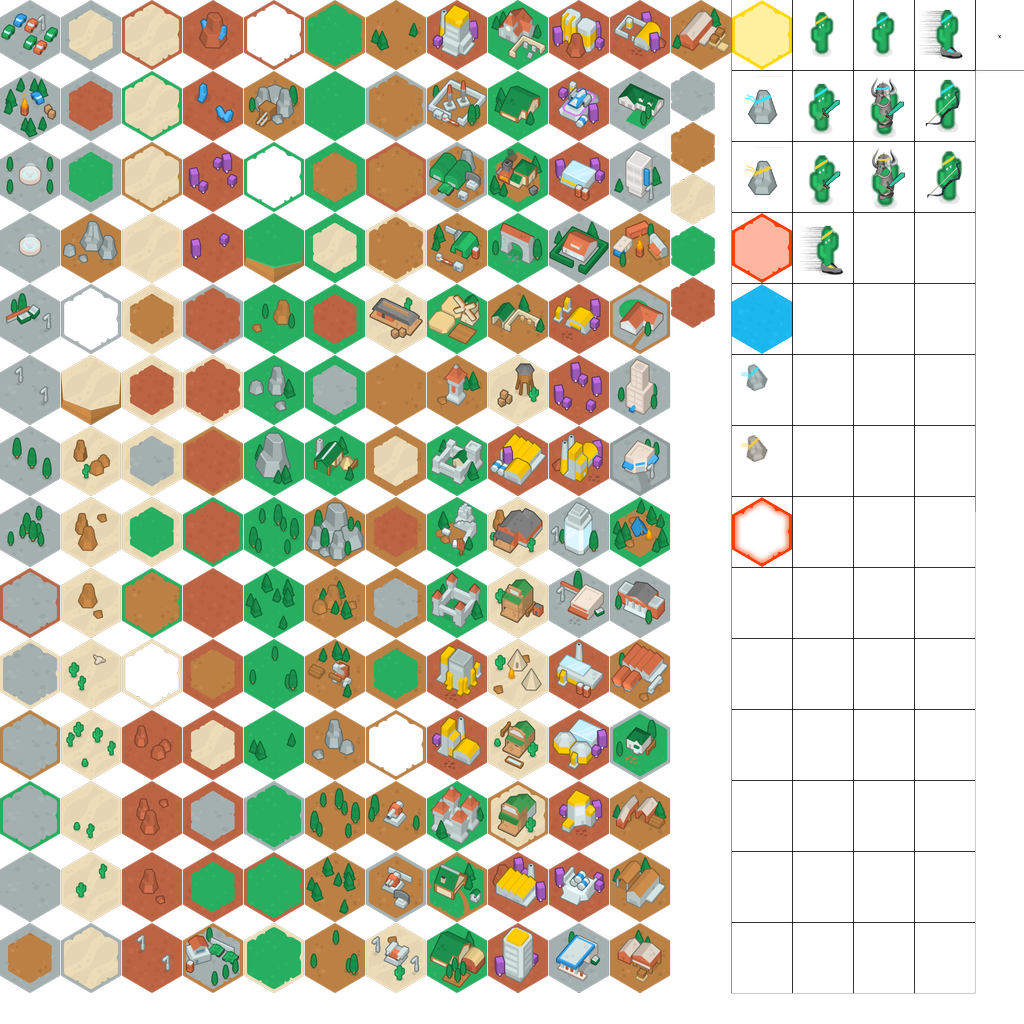
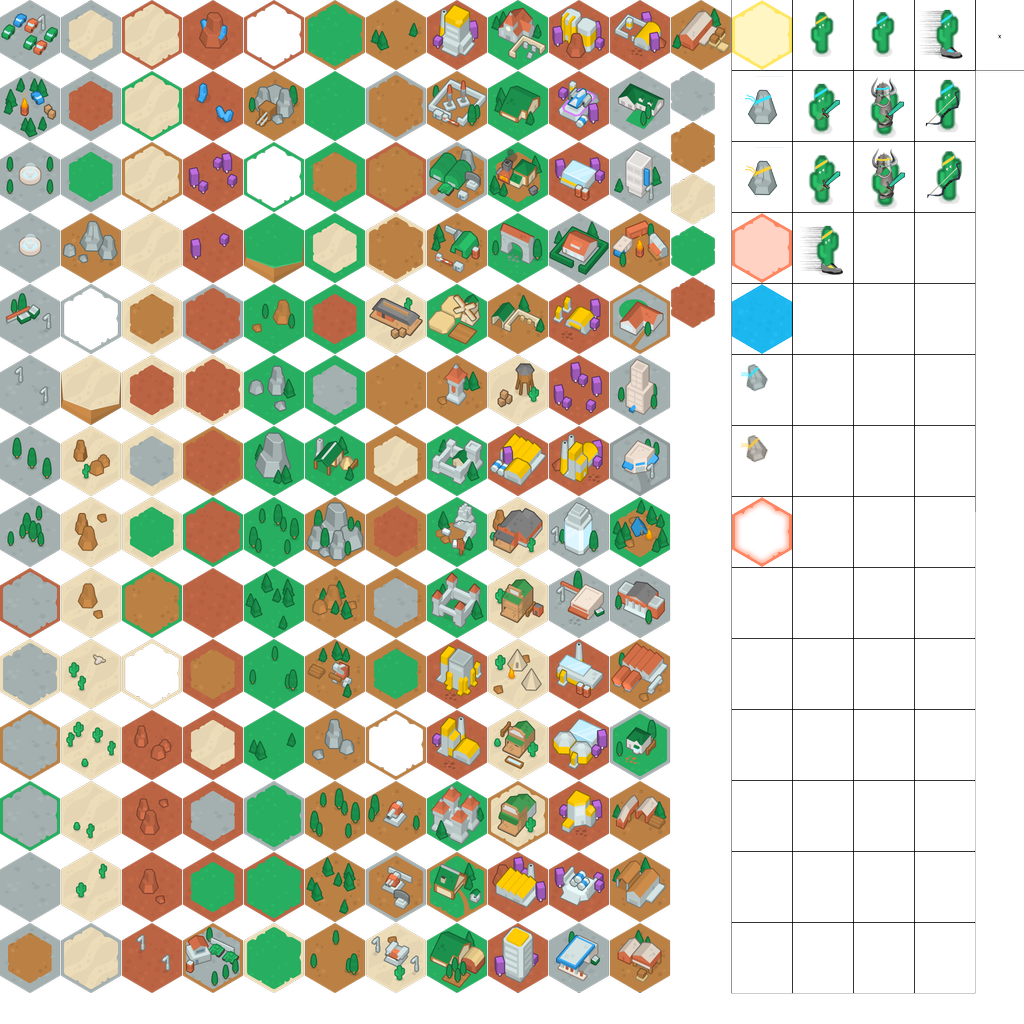
Progress to attack: the return: the next chapter

diff --git a/typescript/GameTroop.ts b/typescript/GameTroop.ts
@@ -63,16 +63,23 @@ class GameTroop {
 
     public deactivate() {
         this.game.troopMoveLayer.clear();
+        this.game.troopAttackLayer.clear();
         this.game.setRenderDirty();
     }
 
     public activate() {
         this.game.troopMoveLayer.buildTiles(this.game.map, this, this.onMoveClick.bind(this));
+        this.game.troopAttackLayer.buildTiles(this.game.map, this, this.onAttackClick.bind(this));
         this.game.setRenderDirty();
     }
 
     private onMoveClick(to : Coord) {
         this.move(to.x, to.y);
+        this.game.deactivateTroop();
+    }
+
+    private onAttackClick(to : Coord){
+        this.attack(to.x, to.y);
         this.game.deactivateTroop();
     }
 
@@ -91,13 +98,28 @@ class GameTroop {
         }
     }
 
+    public attack(x : number, y : number) {
+        let from = {x: this.x, y: this.y};
+        let to = {x: x, y: y};
+        let responseWait = this.game.networking.sendAttack(from, to);
+
+        if (responseWait != null) {
+            let self = this;
+            responseWait.setOnComplete((data) => self.onAttackResponse(data, from, to));
+        }
+    }
+
     //noinspection JSUnusedLocalSymbols
-    public onMoveResponse(data : any, from : Coord, to : Coord){
+    private onMoveResponse(data : any, from : Coord, to : Coord){
         if (data.type != "ok"){
             this.x = from.x;
             this.y = from.y;
             this.game.setRenderDirty();
         }
+    }
+
+    //noinspection JSUnusedLocalSymbols
+    private onAttackResponse(data: NetworkingMessage, from: Coord, to: Coord) {
     }
 }
 
@@ -113,7 +135,7 @@ class GameTroopManager implements TileSource {
         return this.troops.map(t => t.getTile());
     }
 
-    getById(id: number) : GameTrop {
+    getById(id: number) : GameTroop {
         for (let troop of this.troops){
             if (troop.troop.id == id){
                 return troop;

diff --git a/site-root/js/GameTroop.js b/site-root/js/GameTroop.js
@@ -35,14 +35,20 @@ var GameTroop = (function () {
     };
     GameTroop.prototype.deactivate = function () {
         this.game.troopMoveLayer.clear();
+        this.game.troopAttackLayer.clear();
         this.game.setRenderDirty();
     };
     GameTroop.prototype.activate = function () {
         this.game.troopMoveLayer.buildTiles(this.game.map, this, this.onMoveClick.bind(this));
+        this.game.troopAttackLayer.buildTiles(this.game.map, this, this.onAttackClick.bind(this));
         this.game.setRenderDirty();
     };
     GameTroop.prototype.onMoveClick = function (to) {
         this.move(to.x, to.y);
+        this.game.deactivateTroop();
+    };
+    GameTroop.prototype.onAttackClick = function (to) {
+        this.attack(to.x, to.y);
         this.game.deactivateTroop();
     };
     GameTroop.prototype.move = function (x, y) {
@@ -57,6 +63,15 @@ var GameTroop = (function () {
             responseWait.setOnComplete(function (data) { return self_1.onMoveResponse(data, from, to); });
         }
     };
+    GameTroop.prototype.attack = function (x, y) {
+        var from = { x: this.x, y: this.y };
+        var to = { x: x, y: y };
+        var responseWait = this.game.networking.sendAttack(from, to);
+        if (responseWait != null) {
+            var self_2 = this;
+            responseWait.setOnComplete(function (data) { return self_2.onAttackResponse(data, from, to); });
+        }
+    };
     //noinspection JSUnusedLocalSymbols
     GameTroop.prototype.onMoveResponse = function (data, from, to) {
         if (data.type != "ok") {
@@ -64,6 +79,9 @@ var GameTroop = (function () {
             this.y = from.y;
             this.game.setRenderDirty();
         }
+    };
+    //noinspection JSUnusedLocalSymbols
+    GameTroop.prototype.onAttackResponse = function (data, from, to) {
     };
     return GameTroop;
 }());

diff --git a/site-root/js/Game.js b/site-root/js/Game.js
@@ -22,6 +22,7 @@ var WegasGame = (function () {
         this.networking = new WegasNetworking();
         this.gameController = new GameController(this);
         this.troopMoveLayer = new TroopMoveLayer(this);
+        this.troopAttackLayer = new TroopAttackLayer(this);
         this.renderDirty = false;
         this.cameraMoveDirection = new Phaser.Point(0, 0);
         this.cameraSpeed = 0;
@@ -44,7 +45,7 @@ var WegasGame = (function () {
         this.addLoadout(this.opponentLoadout, this.opponentTroops, true);
         this.loadedTroops = new GameTroopManager(this.playerTroops.concat(this.opponentTroops));
         this.flags = new FlagManager(this);
-        this.tileRenderer = new TileRenderer([this.map], [], [this.loadedTroops, this.troopMoveLayer, this.flags], this.map.tileset, this.tileGroup);
+        this.tileRenderer = new TileRenderer([this.map], [], [this.loadedTroops, this.troopMoveLayer, this.troopAttackLayer, this.flags], this.map.tileset, this.tileGroup);
     };
     WegasGame.prototype.setScale = function (scale) {
         //this.game.scale.setupScale(1920, 1080);

diff --git a/typescript/Game.ts b/typescript/Game.ts
@@ -21,15 +21,16 @@ class WegasGame
 
     networking : WegasNetworking;
     troopMoveLayer : TroopMoveLayer;
+    troopAttackLayer: TroopAttackLayer;
     loadedTroops: GameTroopManager;
+
     flags : FlagManager;
-
     renderDirty : boolean;
+
     cameraSpeed : number;
-
     cameraMoveDirection : Phaser.Point;
-    activeTroop : GameTroop;
 
+    activeTroop : GameTroop;
     endTurn : Phaser.Button;
 
     constructor()
@@ -58,6 +59,7 @@ class WegasGame
         this.networking = new WegasNetworking();
         this.gameController = new GameController(this);
         this.troopMoveLayer = new TroopMoveLayer(this);
+        this.troopAttackLayer = new TroopAttackLayer(this);
 
         this.renderDirty = false;
 
@@ -97,7 +99,7 @@ class WegasGame
         this.tileRenderer = new TileRenderer(
             [this.map],
             [],
-            [this.loadedTroops, this.troopMoveLayer, this.flags],
+            [this.loadedTroops, this.troopMoveLayer, this.troopAttackLayer, this.flags],
             this.map.tileset,
             this.tileGroup);
     }

diff --git a/site-root/js/TileRenderer.js b/site-root/js/TileRenderer.js
@@ -107,9 +107,9 @@ var TileRenderer = (function () {
             var newSprite = this.spriteBatch.create(t.x * tileWidth + ((t.y % 2 == 0) ? 0 : (tileWidth / 2)), t.y * tileHeight * 3 / 4, this.tileset.sourceImage, t.tileIndex);
             newSprite.anchor = new Phaser.Point(0.5, 0.5);
             if (t.mirrored) {
-                console.log(newSprite.scale);
+                //console.log(newSprite.scale);
                 newSprite.scale.setTo(-1, 1);
-                console.log(newSprite.scale);
+                //console.log(newSprite.scale);
             }
             else {
                 newSprite.scale.setTo(1, 1);
@@ -121,7 +121,7 @@ var TileRenderer = (function () {
                 newSprite.events.onInputDown.add(t.onClick.bind(this), t);
             }
             if (t.mirrored) {
-                console.log(newSprite);
+                //console.log(newSprite);
             }
         }
     };

diff --git a/site-root/js/TroopAttackLayer.js b/site-root/js/TroopAttackLayer.js
@@ -25,7 +25,7 @@ var TroopAttackLayer = (function () {
             if (this.isEnemy(current)) {
                 this.addTile(current, true, onClick);
             }
-            else if (currentDist != 0) {
+            else if (currentDist != 0 && map.isAccessible(current)) {
                 this.addTile(current, false, null);
             }
             if (currentDist < range) {
@@ -45,7 +45,8 @@ var TroopAttackLayer = (function () {
         return troop != null && troop.isEnemy;
     };
     TroopAttackLayer.prototype.addTile = function (coord, isActive, onClick) {
-        var tile = new Tile(coord.x, coord.y, 12, 5);
+        var tileIdx = isActive ? 12 + 3 * 16 : 12 + 7 * 16;
+        var tile = new Tile(coord.x, coord.y, tileIdx, 6);
         if (onClick != null) {
             tile.onClick = function () { return onClick(coord); };
         }

diff --git a/typescript/TroopAttackLayer.ts b/typescript/TroopAttackLayer.ts
@@ -35,7 +35,7 @@ class TroopAttackLayer implements TileSource {
             if (this.isEnemy(current)){
                 this.addTile(current, true, onClick);
             }
-            else if (currentDist != 0){
+            else if (currentDist != 0 && map.isAccessible(current)){
                 this.addTile(current, false, null);
             }
 
@@ -57,7 +57,8 @@ class TroopAttackLayer implements TileSource {
     }
 
     private addTile(coord: Coord, isActive : boolean, onClick : (c : Coord) => void) {
-        let tile = new Tile(coord.x, coord.y, 12, 5);
+        let tileIdx = isActive? 12 + 3 * 16 : 12 + 7 * 16;
+        let tile = new Tile(coord.x, coord.y, tileIdx, 6);
         if (onClick != null){
             tile.onClick = () => onClick(coord);
         }

diff --git a/typescript/TileRenderer.ts b/typescript/TileRenderer.ts
@@ -151,9 +151,9 @@ class TileRenderer {
             newSprite.anchor = new Phaser.Point(0.5, 0.5);
 
             if (t.mirrored){
-                console.log(newSprite.scale);
+                //console.log(newSprite.scale);
                 newSprite.scale.setTo(-1, 1);
-                console.log(newSprite.scale);
+                //console.log(newSprite.scale);
             }
             else{
                 newSprite.scale.setTo(1, 1);
@@ -168,7 +168,7 @@ class TileRenderer {
             }
 
             if (t.mirrored){
-                console.log(newSprite);
+                //console.log(newSprite);
             }
         }
     }

diff --git a/site-root/.view/gameplay.html b/site-root/.view/gameplay.html
@@ -25,6 +25,7 @@
     <script src="/js/Networking.js"></script>
     <script src="/js/Troops.js"></script>
     <script src="/js/TroopMoveLayer.js"></script>
+    <script src="/js/TroopAttackLayer.js"></script>
     <script src="/js/GameTroop.js"></script>
     <script src="/js/GameController.js"></script>
     <script src="/js/Game.js"></script>

diff --git a/site-root/js/Flags.js b/site-root/js/Flags.js
@@ -18,7 +18,7 @@ var Flag = (function () {
             this.y = this.carryingTroop.y;
             tileIdx += 4 * 16;
         }
-        return new Tile(this.x, this.y, tileIdx, 6);
+        return new Tile(this.x, this.y, tileIdx, 8);
     };
     return Flag;
 }());

diff --git a/typescript/Flags.ts b/typescript/Flags.ts
@@ -27,7 +27,7 @@ class Flag {
             tileIdx += 4 * 16;
         }
 
-        return new Tile(this.x, this.y, tileIdx, 6);
+        return new Tile(this.x, this.y, tileIdx, 8);
     }
 }
 
